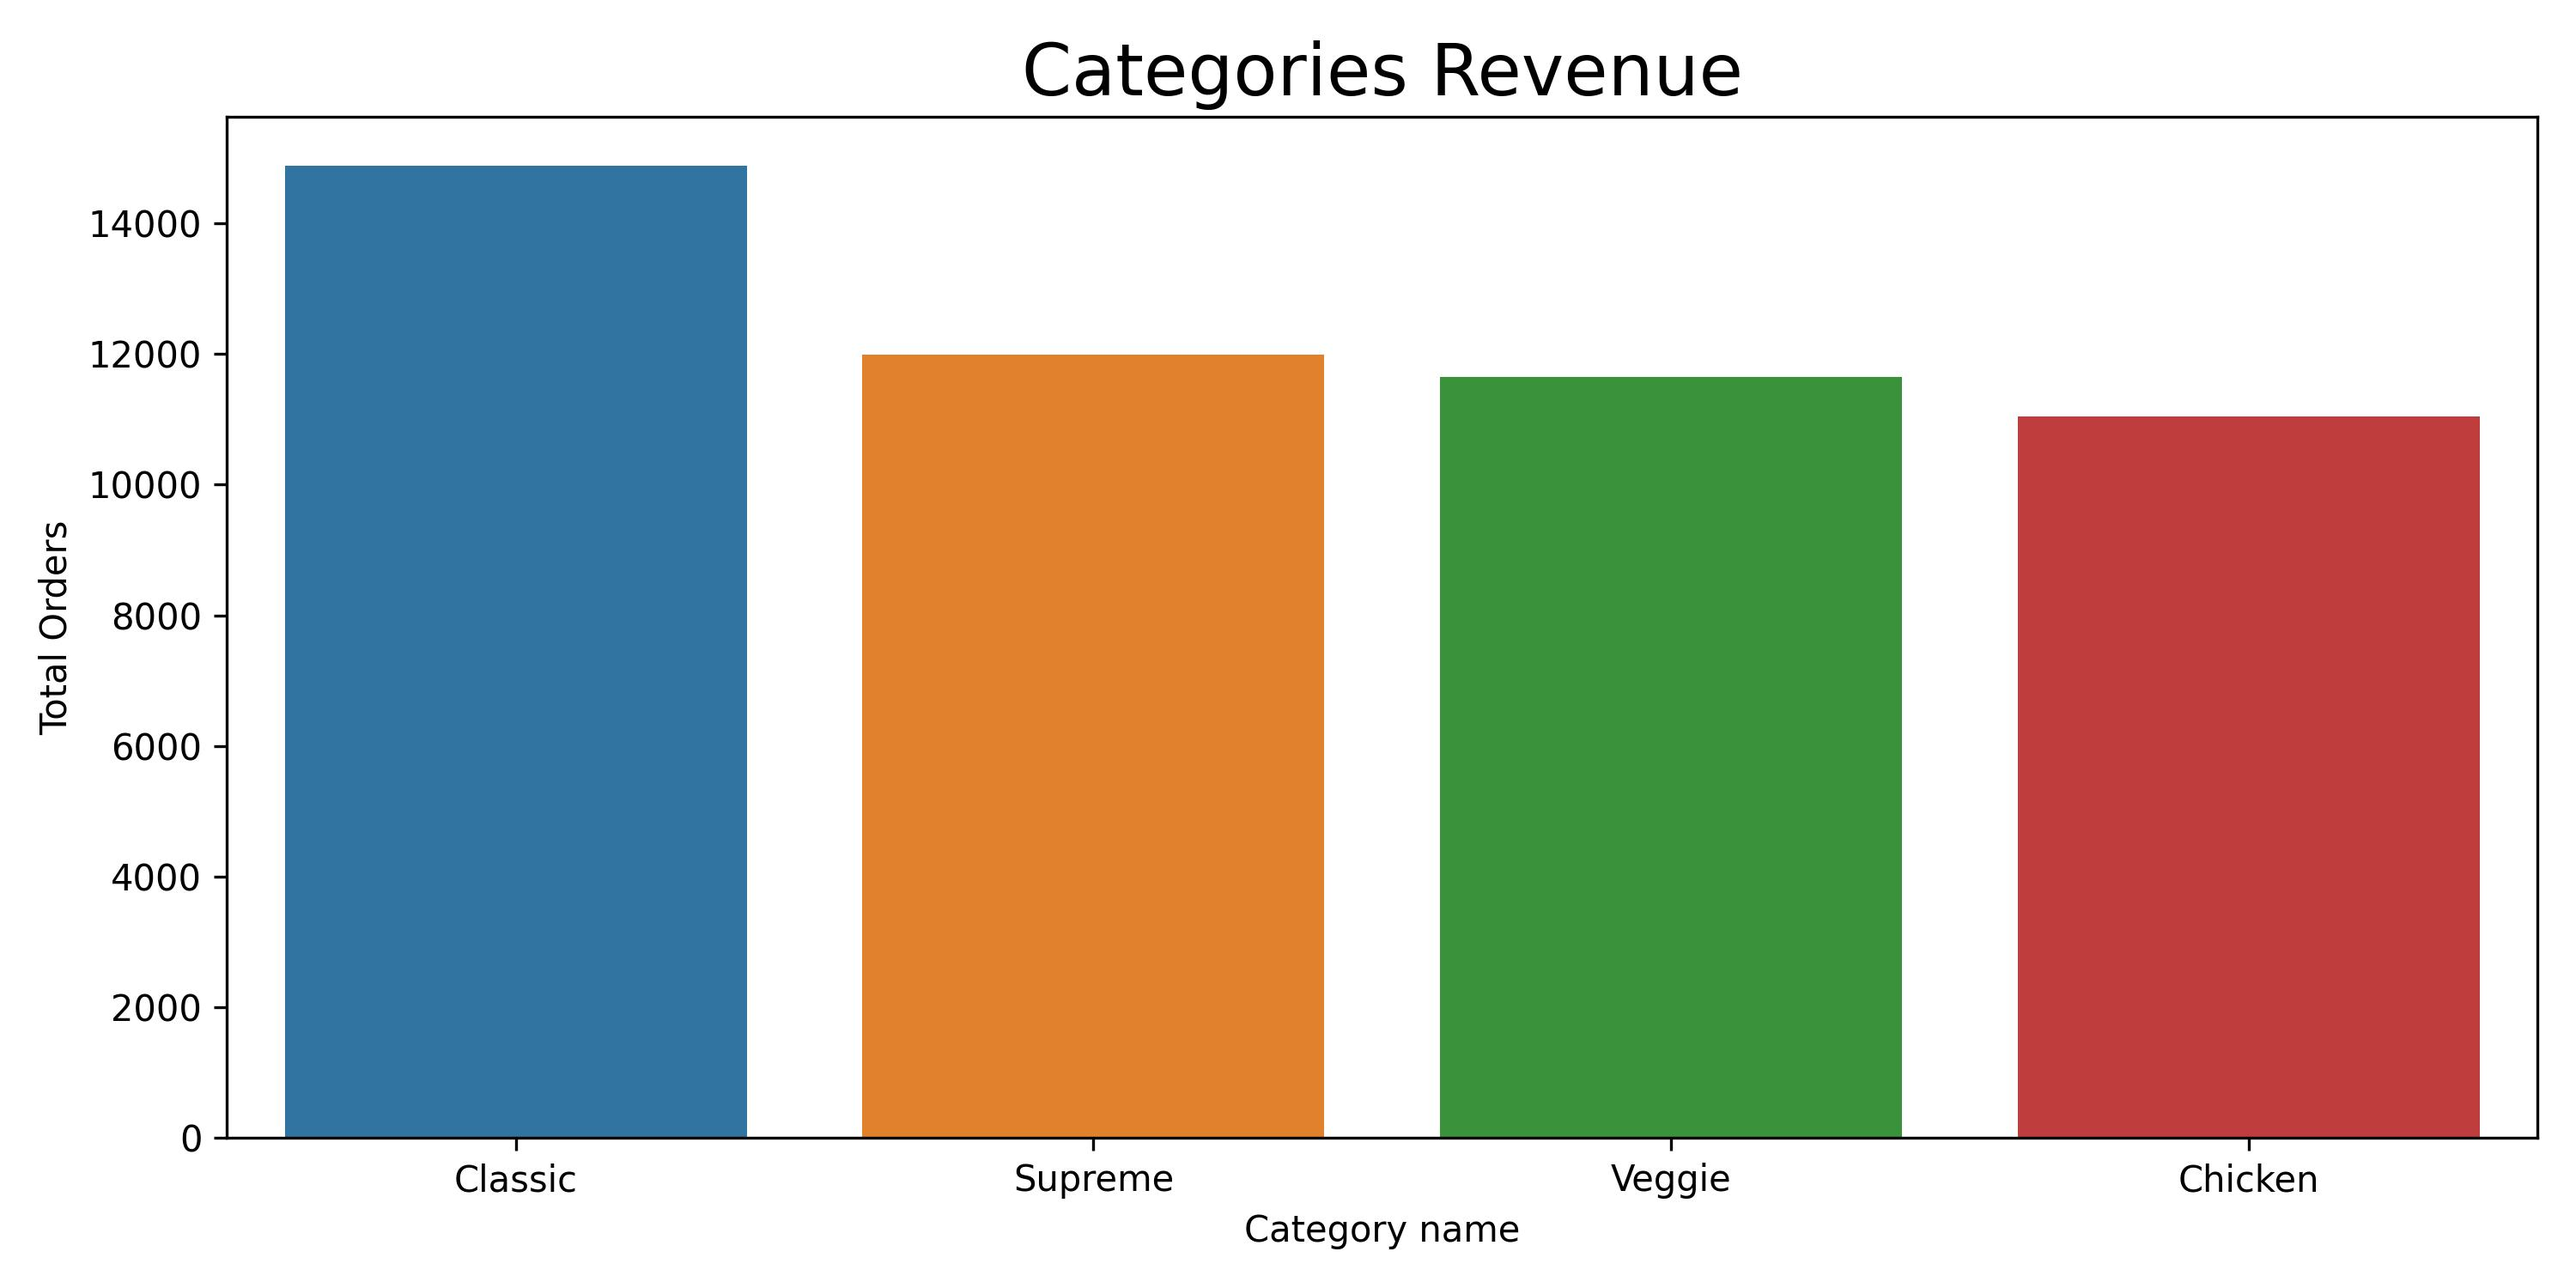
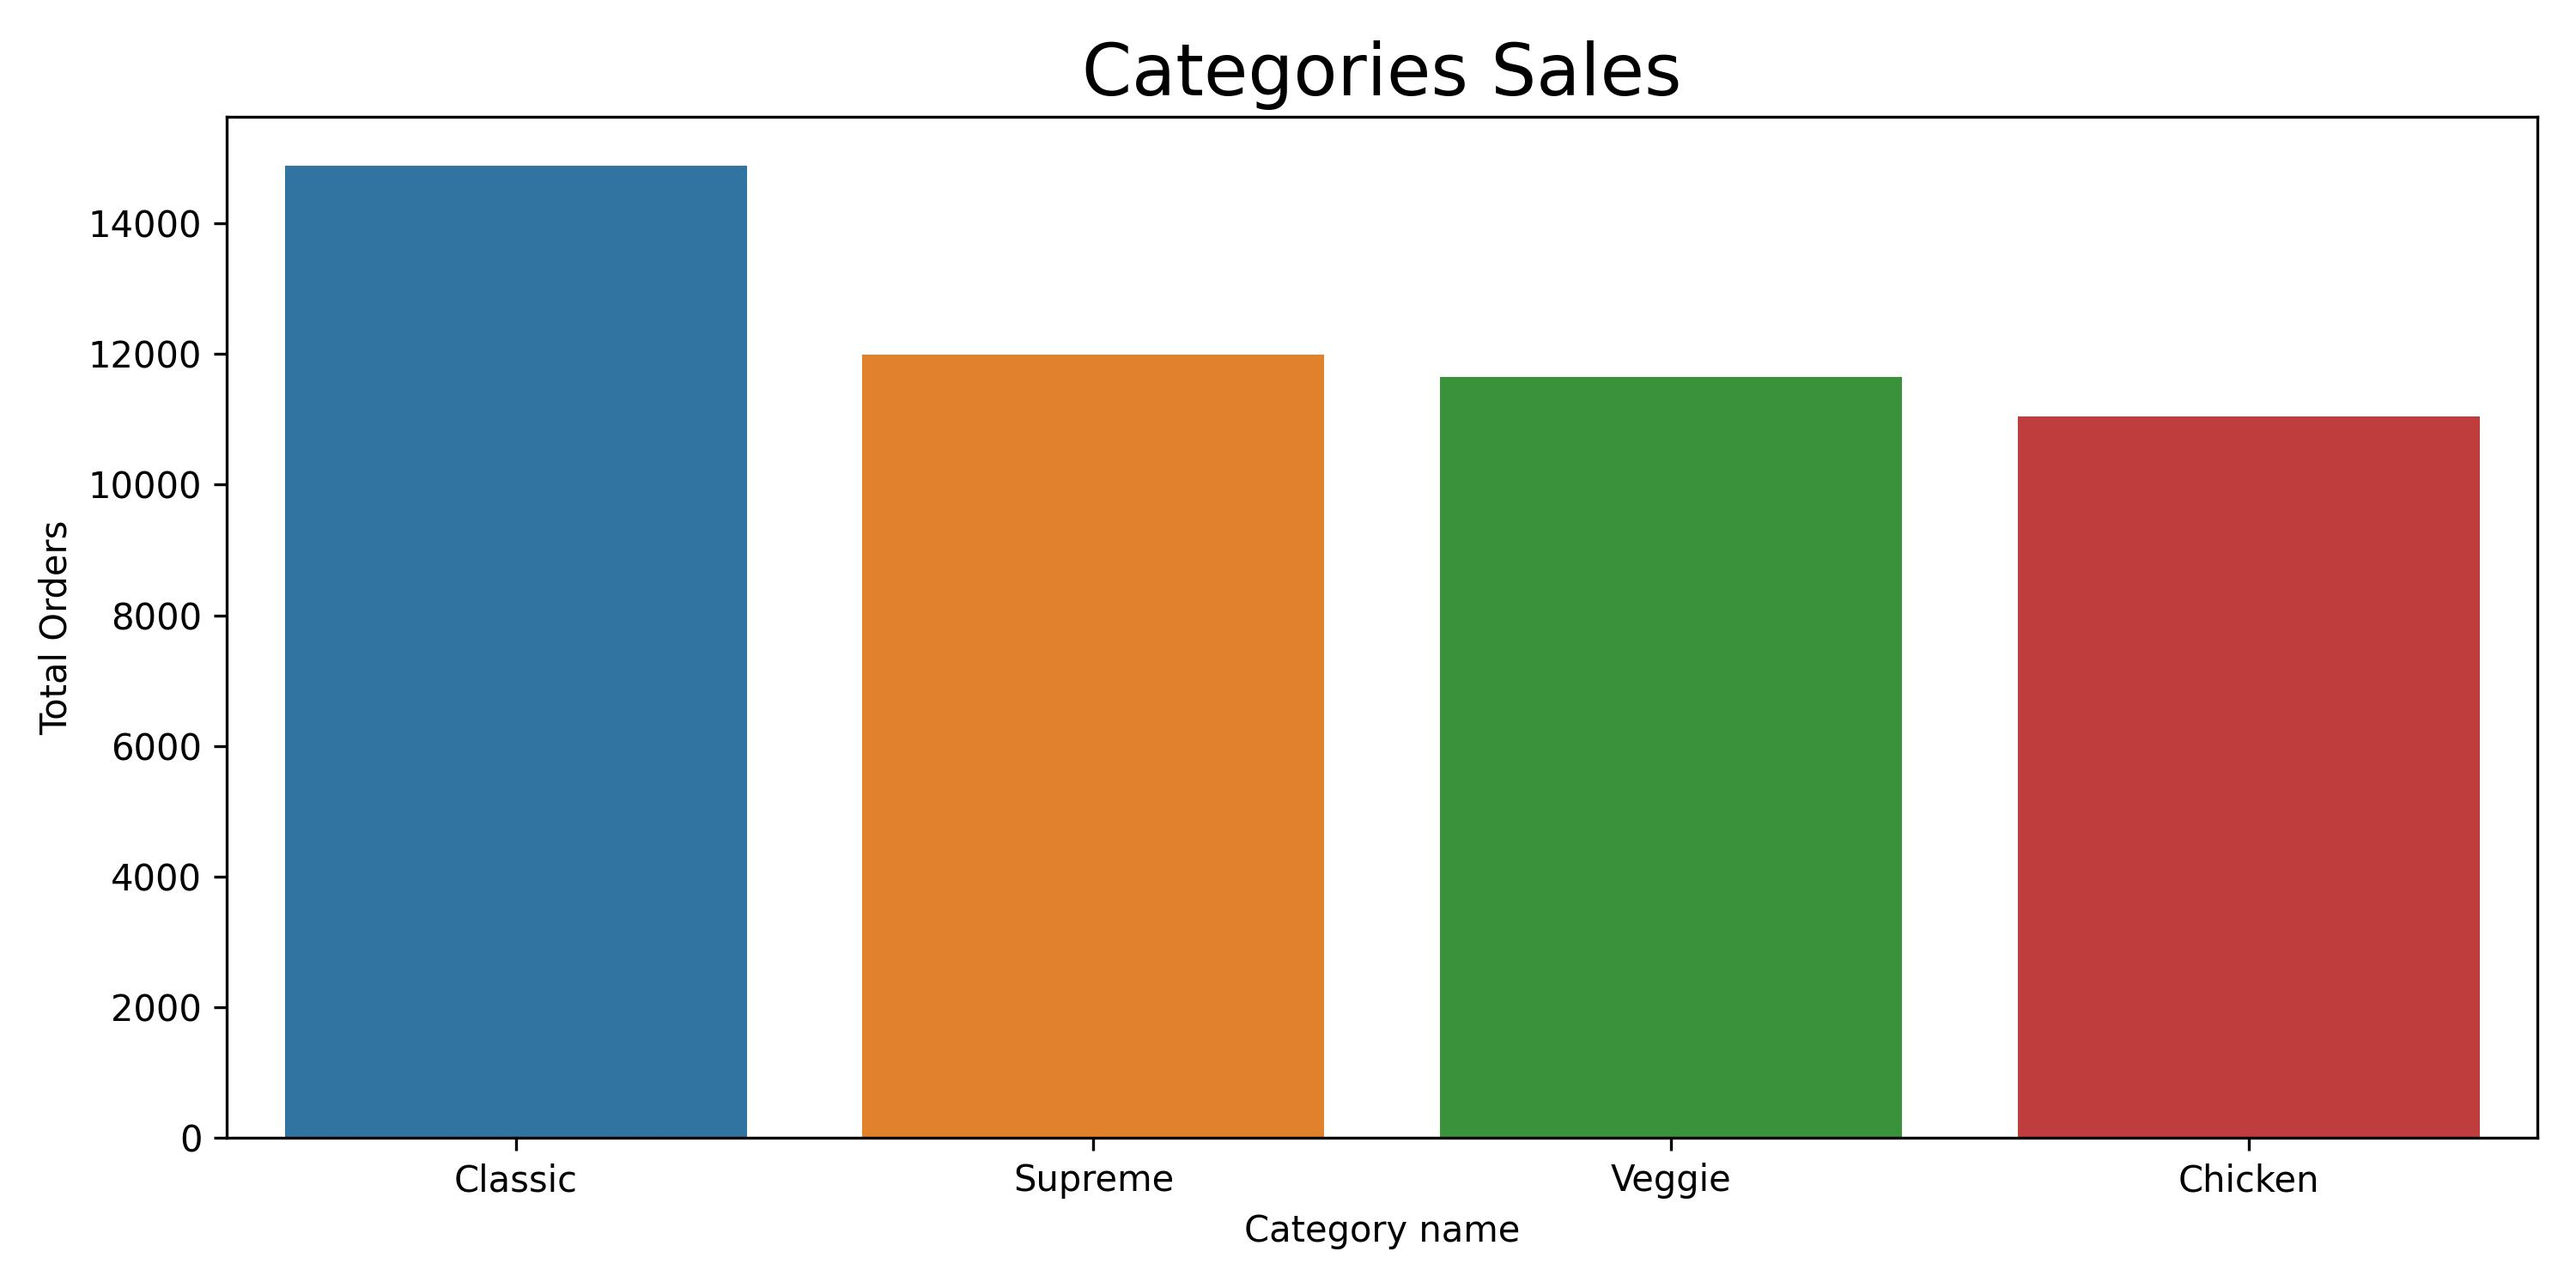
detalle en graficos

Changed region(s): [[0.403, 0.0307, 0.682, 0.092]]

diff --git a/Reports/reports.py b/Reports/reports.py
@@ -160,7 +160,7 @@ fig=sns.barplot(data=df_category_sales.head(10),
             #color='blue',
             #hue='year',
             )
-plt.title('Categories Revenue',fontsize=20)
+plt.title('Categories Sales',fontsize=20)
 plt.xlabel('Category name')
 plt.ylabel('Total Orders')
 plt.tight_layout()
